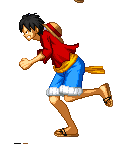
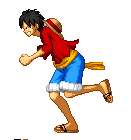
Mouvements même s'il y a une collision vers l'objet

diff --git a/data/modules/fighter.py b/data/modules/fighter.py
@@ -69,6 +69,28 @@ class Fighter(pg.sprite.Sprite):
                     self.vals['pause'] = False
                 else:
                     self.game.elms['side'] = 'run'
+        if not test:
+            self.move_collide()
+
+    def move_collide(self):
+        """
+        Mouvement en cas de collision(s)
+        """
+        if self.game.elms['right'] and self.game.object.rect.x < self.rect.x:
+            self.rect.x += 10
+            # On change l'image du joueur
+            if self.game.name in ['goku', 'vegeta']:
+                self.change_animation('right')
+                self.vals['pause'] = False
+            else:
+                self.game.elms['side'] = 'run'
+        elif not self.game.elms['right'] and self.game.object.rect.x > self.rect.x:
+            self.rect.x -= 10
+            if self.game.name in ['goku', 'vegeta']:
+                self.change_animation('left')
+                self.vals['pause'] = False
+            else:
+                self.game.elms['side'] = 'run'
 
     def move_controller(self, actions):
         "Cette fonction gère les déplacements de droite à gauche a la manette"
@@ -159,10 +181,6 @@ class Fighter(pg.sprite.Sprite):
                 self.vals['jumps'] = 0
                 # Réaffecte à zéro la hauteur actuelle
                 self.vals['current_height'] = 0
-
-    def gravity2(self):
-        if self.rect.y < self.vals['surface_height']-100:
-            self.rect.y += 5
 
     def change_animation(self, name):
         '''Fonction qui change l'image du personnage'''

diff --git a/data/modules/levels.py b/data/modules/levels.py
@@ -66,7 +66,7 @@ class BaseLevel:
 
     def init_game(self):
         """initialise le jeu"""
-        self.cls["game"] = Jeu("itachi", self.pkg, self.prop)
+        self.cls["game"] = Jeu("luffy", self.pkg, self.prop)
 
     def init_events(self):
         """initialise les évènements"""
